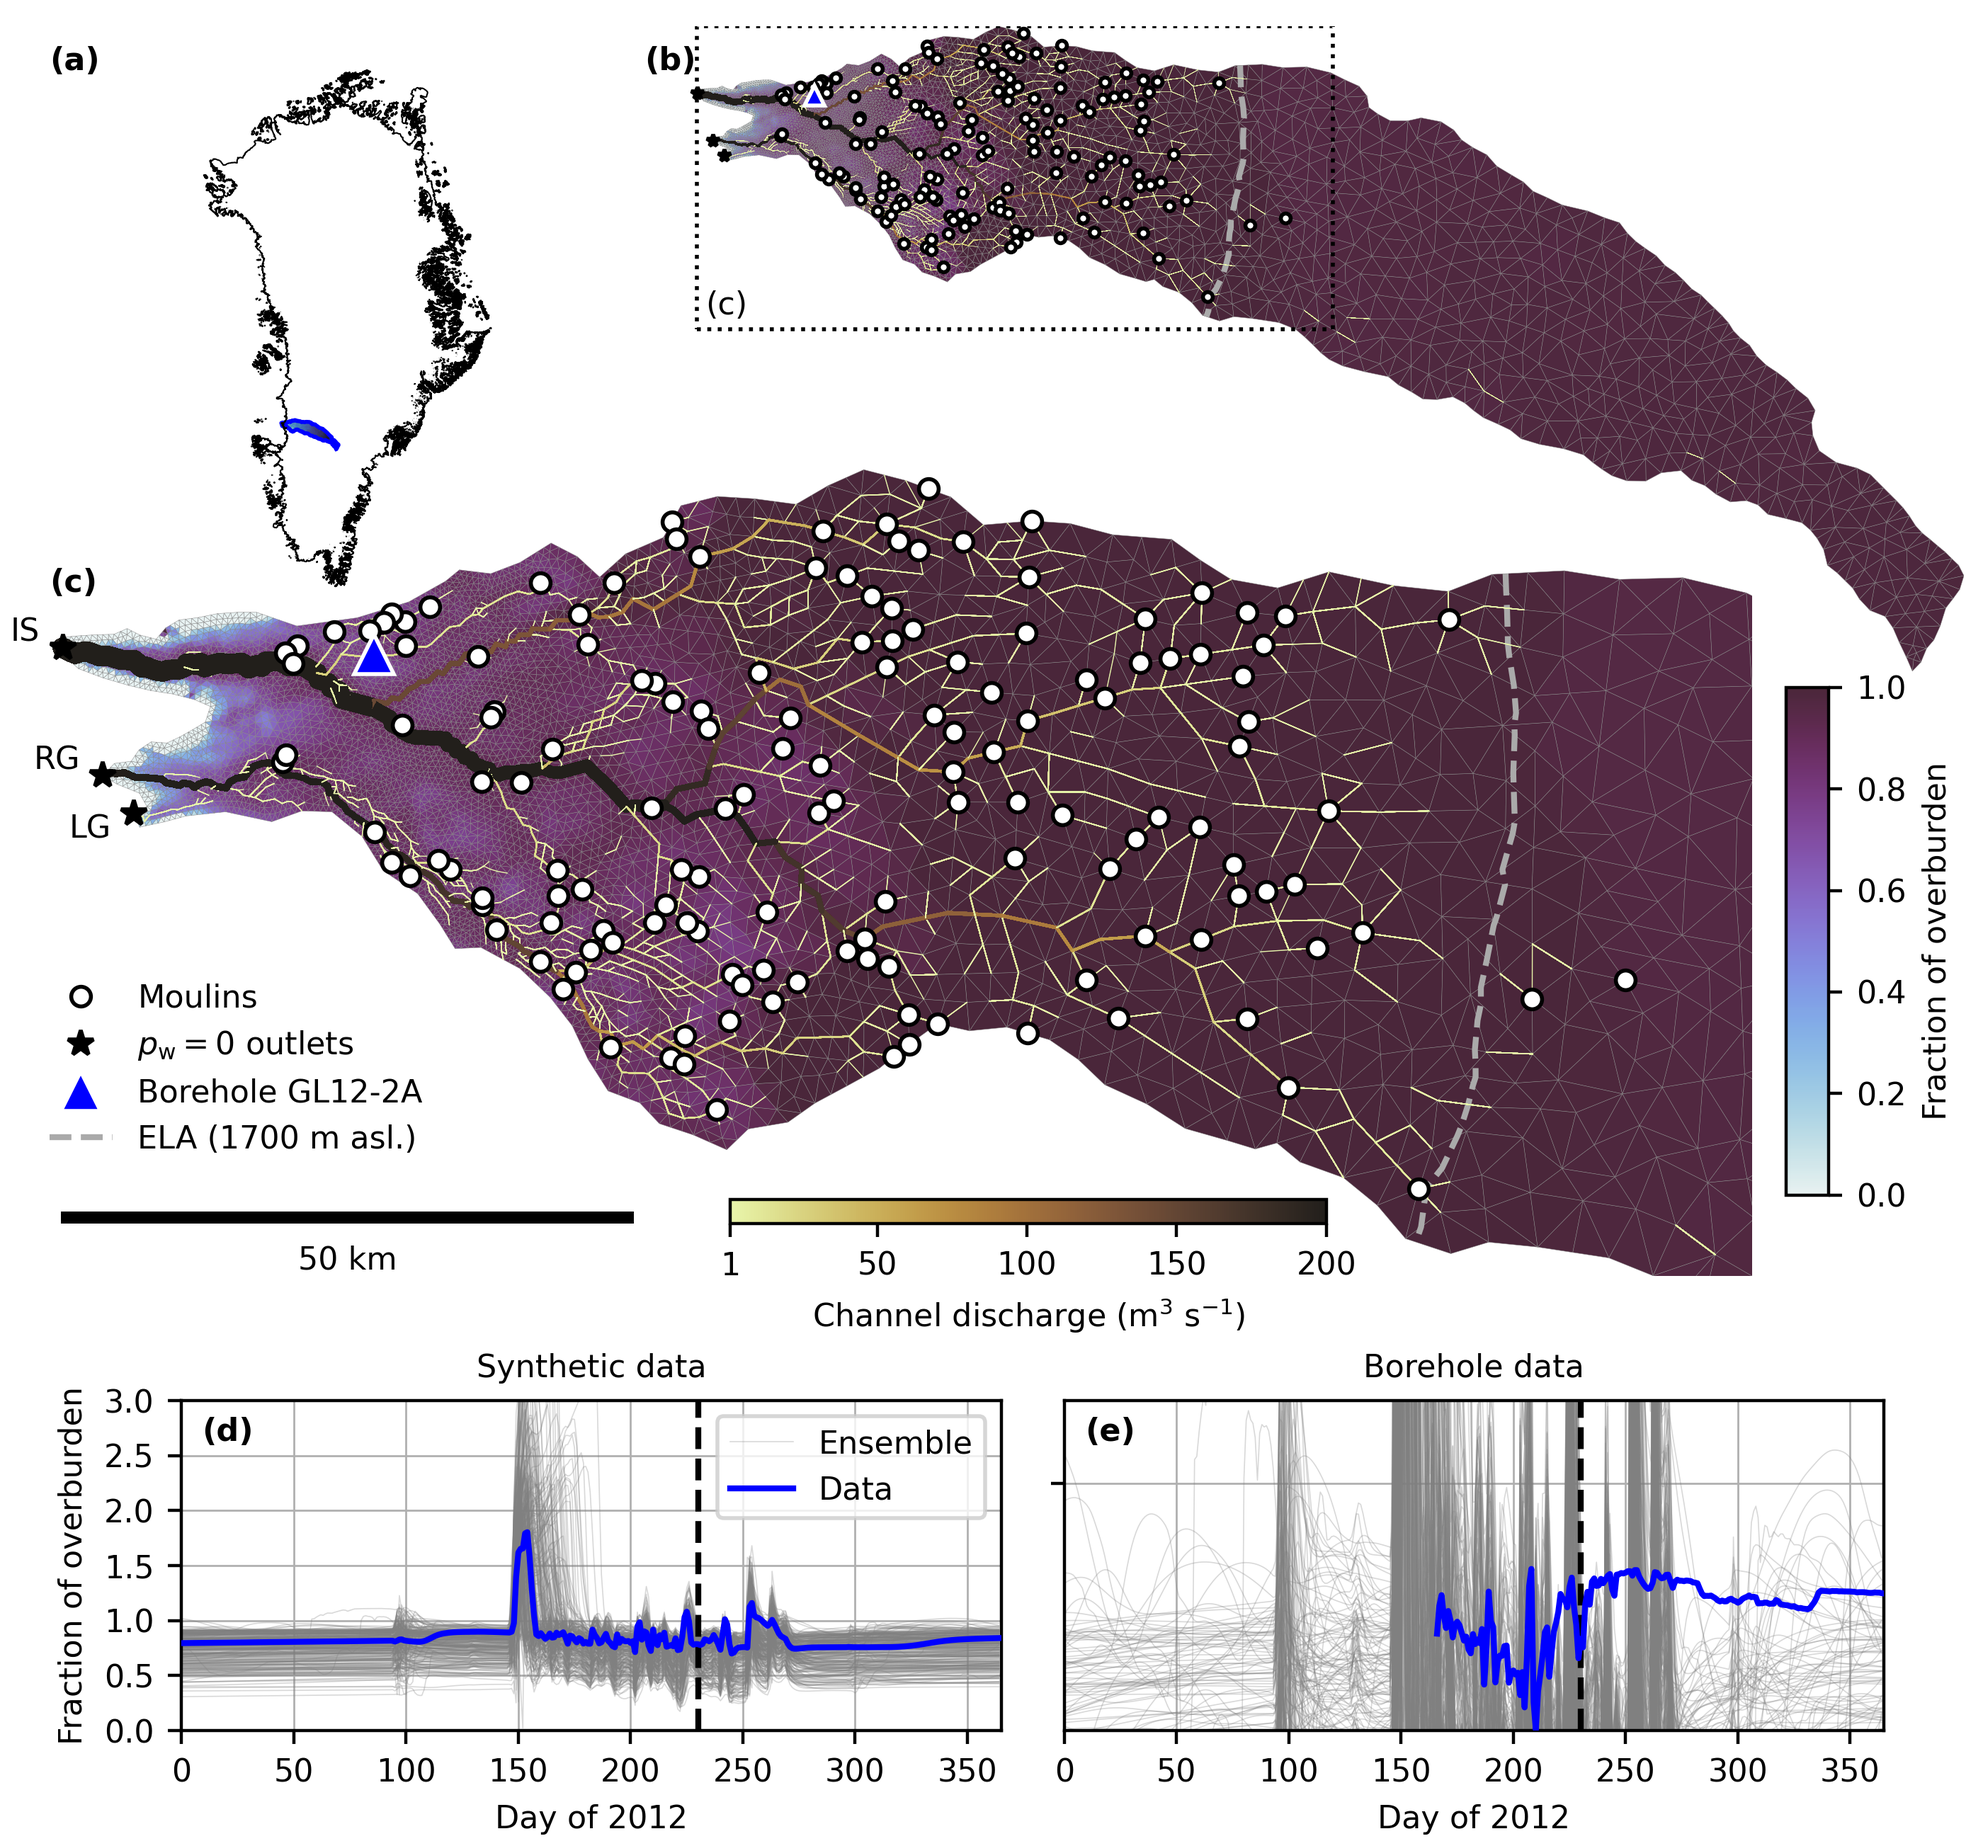
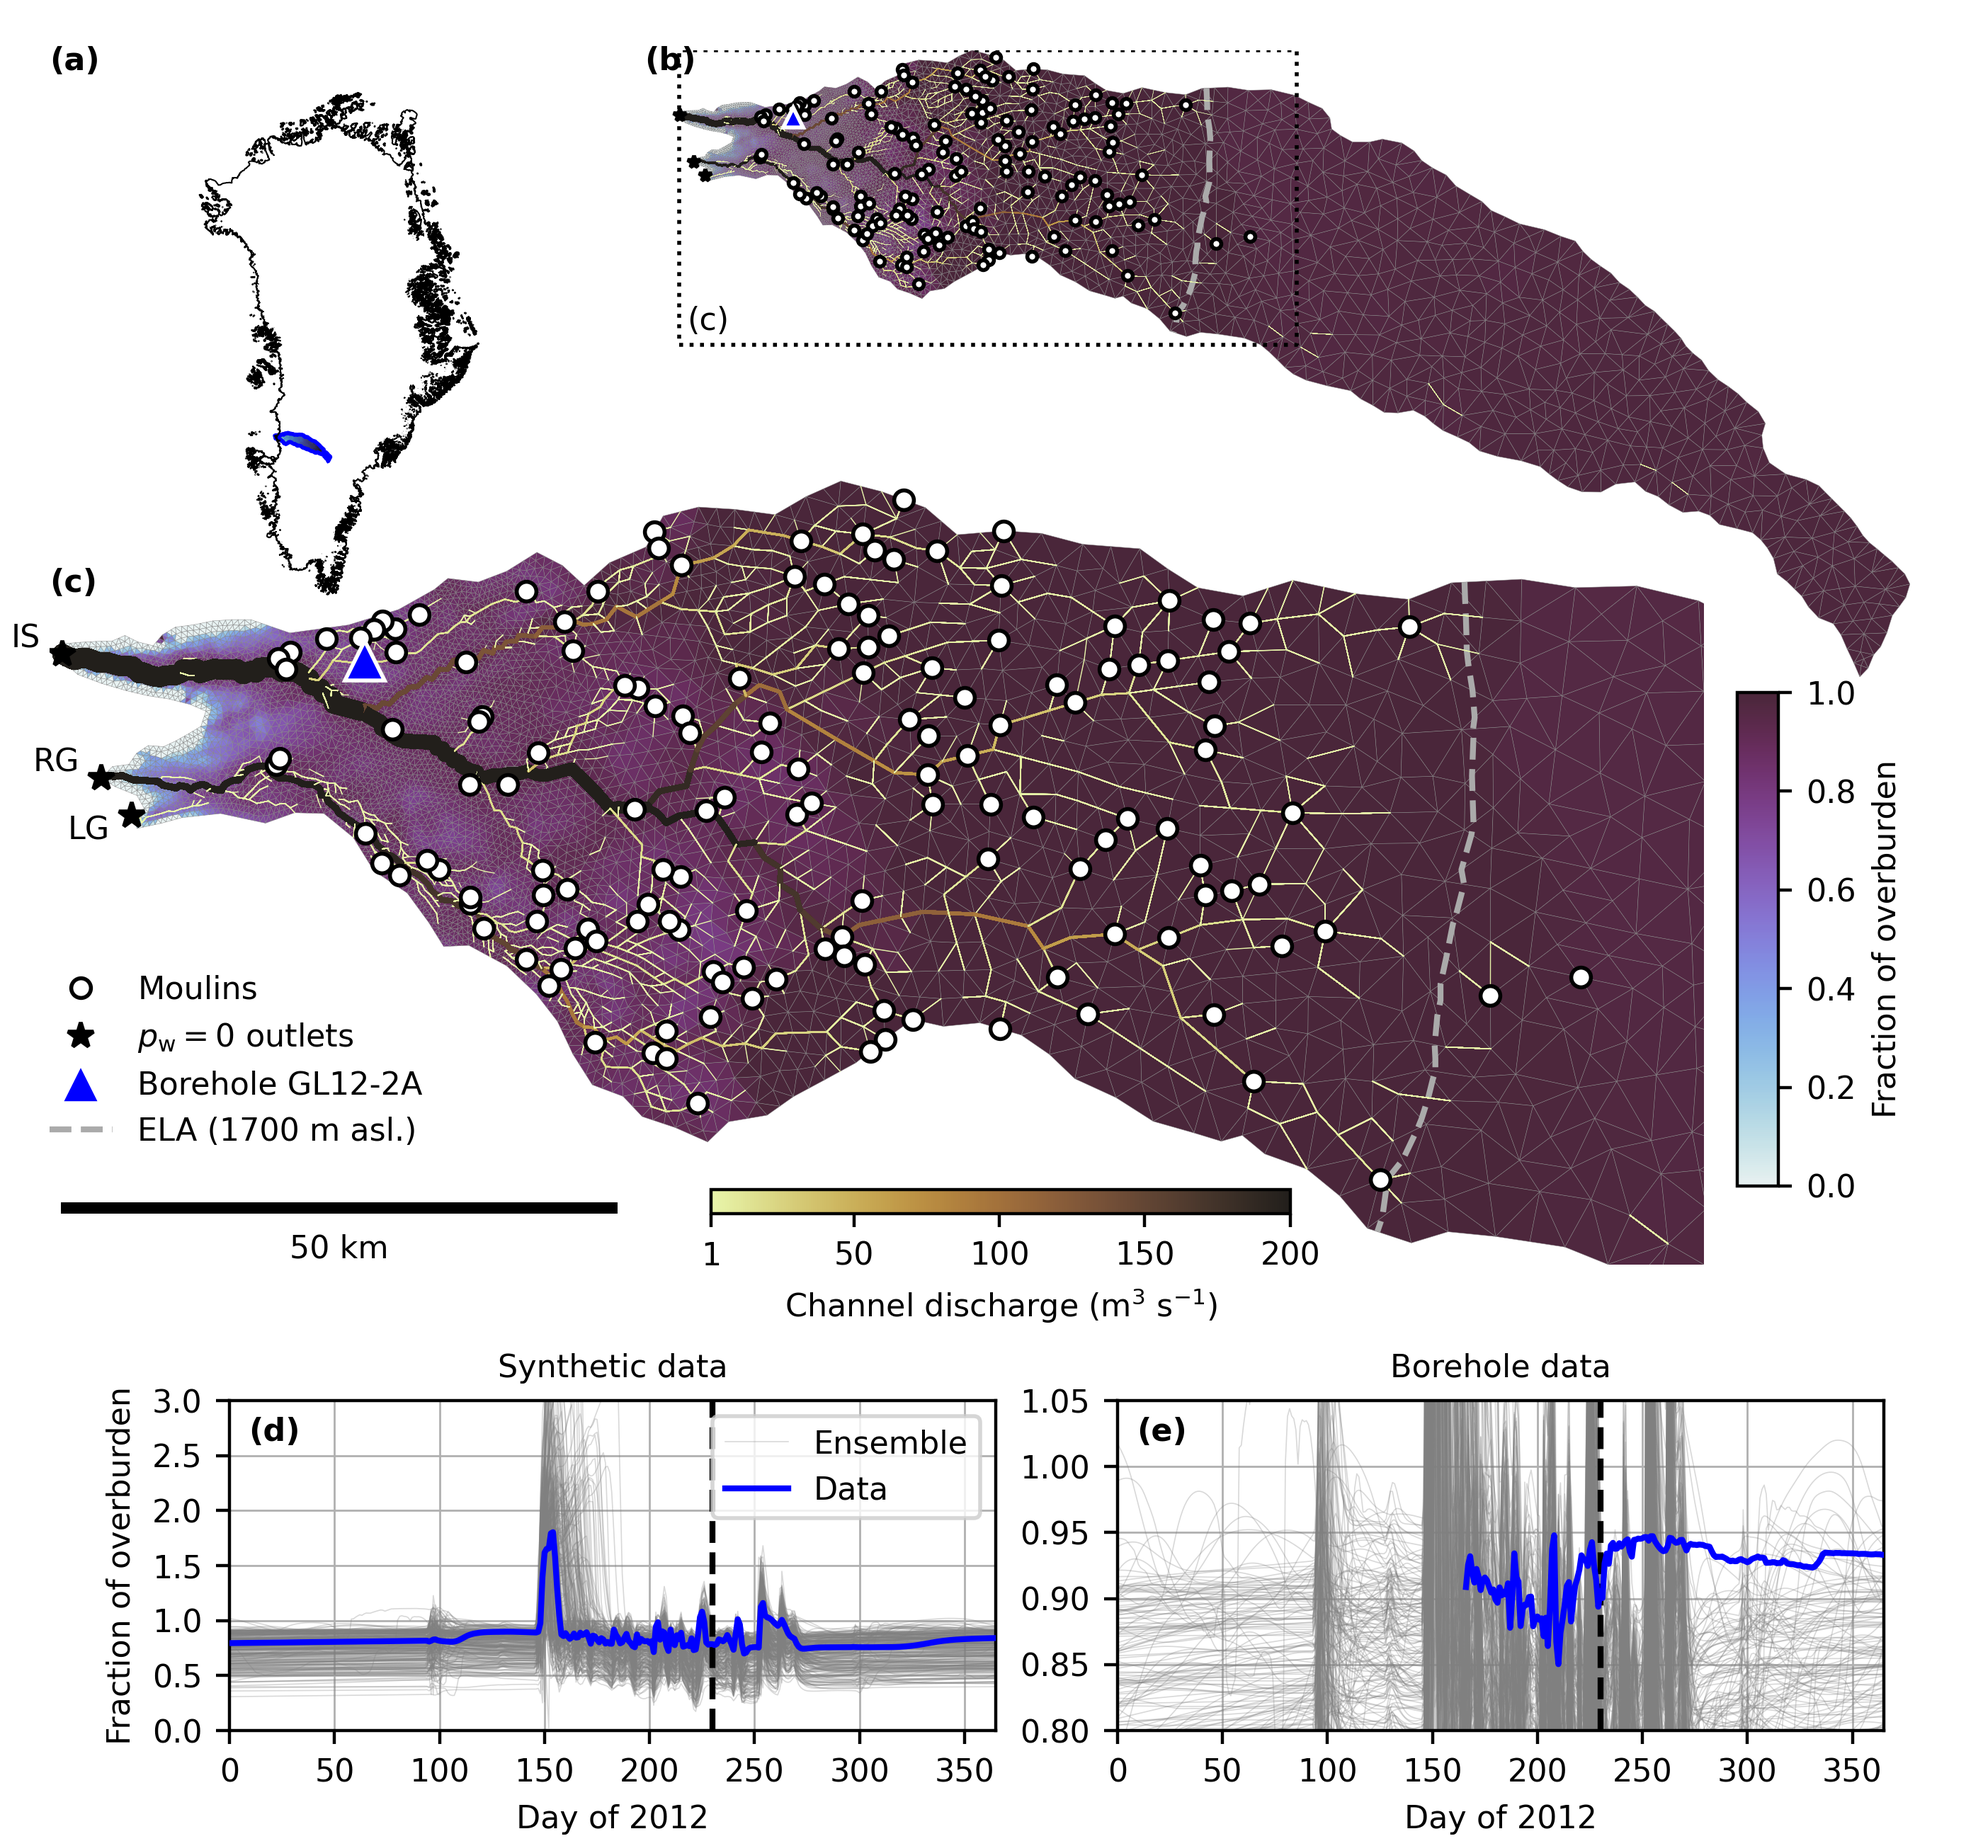
Axis ylabels for borehole data

diff --git a/data/plot_domain.py b/data/plot_domain.py
@@ -85,7 +85,7 @@ fig = plt.figure(figsize=(7, 6.5))
 
 dx = 10
 gs = GridSpec(2, 5,
-    hspace=0.2, left=0.025, bottom=0.06, right=0.95, top=0.75,
+    hspace=0.2, wspace=0.45, left=0.025, bottom=0.06, right=0.95, top=0.75,
     height_ratios=(5/7, 2/7), width_ratios=(dx, 100, dx, 100, dx))
 ax1 = fig.add_subplot(gs[0,:-1])
 ax2 = ax1.inset_axes((0.35, 0.75, 0.8, 0.8))
@@ -315,10 +315,11 @@ for ax in (axt1, axt2):
     ax.set_xlabel('Day of 2012')
     ax.axvline(tt[tstep], color='k', linestyle='dashed')
 
-axt2.set_ylim([0.85, 1.05])
+axt2.set_ylim([0.8, 1.05])
+axt2.set_yticks([0.8, 0.85, 0.9, 0.95, 1.0, 1.05])
 
 axt1.legend(handles=(h1[0], h2[0]), loc='upper right', frameon=True)
-axt2.set_yticklabels([])
+# axt2.set_yticklabels([])
 axt1.set_ylabel('Fraction of overburden')
 
 axt1.set_title('Synthetic data')
